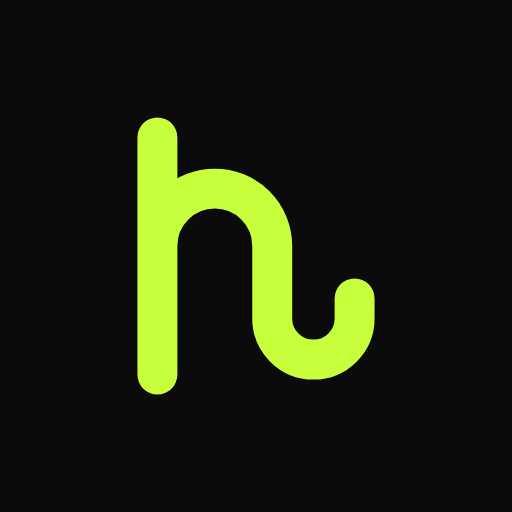
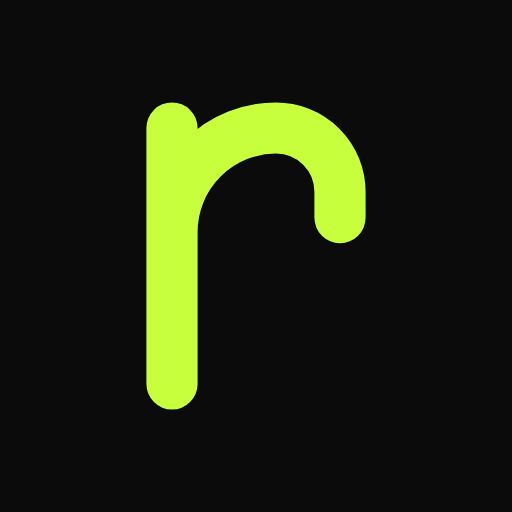
Redesign the mark as an r whose arm curls into a hook
The lime r on the near-black tile replaces the old h: same stroke
weight, round ends and centring, the arm's curl carrying the hook over.
Updated in the studio logo, the landing logo, logo-mark and favicon
SVGs, the PNG app icons (32, 180, 192, 512) and the share image.

Claude-Session: https://claude.ai/code/session_01KdtaEVcjz1LHtpws4s2pfJ

Changed region(s): [[0.25, 0.1875, 0.75, 0.8125]]

diff --git a/src/components/Logo.tsx b/src/components/Logo.tsx
@@ -1,5 +1,5 @@
-// rookker logo: the hook mark and the "rookker" wordmark (Inter Display SemiBold, outlined, -51.2 units tracking).
-const HOOK = "M8.5 6.5V25.5M8.5 15.2a4.6 4.6 0 0 1 9.2 0V21a3.3 3.3 0 0 0 6.6 0v-1.6";
+// rookker logo: an "r" whose arm curls into a hook, and the "rookker" wordmark (Inter Display SemiBold, outlined, -51.2 units tracking).
+const MARK = "M10.75 8V24M10.75 14.5a6.5 6.5 0 0 1 6.5-6.5a4 4 0 0 1 4 4v1.6";
 const WORD = "M112 0H364V-598C364 -763 457 -846 577 -846C627 -846 677 -841 696 -838V-1062C676 -1064 648 -1066 614 -1066C478 -1066 397 -1002 358 -881H355V-1056H112ZM1261.8 24C1572.8 24 1782.8 -199 1782.8 -527C1782.8 -855 1572.8 -1080 1261.8 -1080C950.8 -1080 740.8 -855 740.8 -527C740.8 -199 950.8 24 1261.8 24ZM1261.8 -187C1098.8 -187 995.8 -316 995.8 -527C995.8 -739 1099.8 -869 1261.8 -869C1422.8 -869 1526.8 -738 1526.8 -527C1526.8 -317 1423.8 -187 1261.8 -187ZM2377.6 24C2688.6 24 2898.6 -199 2898.6 -527C2898.6 -855 2688.6 -1080 2377.6 -1080C2066.6 -1080 1856.6 -855 1856.6 -527C1856.6 -199 2066.6 24 2377.6 24ZM2377.6 -187C2214.6 -187 2111.6 -316 2111.6 -527C2111.6 -739 2215.6 -869 2377.6 -869C2538.6 -869 2642.6 -738 2642.6 -527C2642.6 -317 2539.6 -187 2377.6 -187ZM3021.4 0H3273.4V-353L3369.4 -452L3715.4 0H4016.4L3561.4 -600L3990.4 -1056H3687.4L3276.4 -628H3273.4V-1490H3021.4ZM4068.2 0H4320.2V-353L4416.2 -452L4762.2 0H5063.2L4608.2 -600L5037.2 -1056H4734.2L4323.2 -628H4320.2V-1490H4068.2ZM5581 24C5828 24 6024 -119 6064 -326H5828C5799 -236 5714 -175 5587 -175C5417 -175 5319 -290 5313 -462H6077V-531C6077 -855 5875 -1080 5571 -1080C5275 -1080 5066 -848 5066 -527C5066 -207 5264 24 5581 24ZM5315 -636C5332 -787 5429 -880 5575 -880C5721 -880 5819 -787 5835 -636ZM6196.8 0H6448.8V-598C6448.8 -763 6541.8 -846 6661.8 -846C6711.8 -846 6761.8 -841 6780.8 -838V-1062C6760.8 -1064 6732.8 -1066 6698.8 -1066C6562.8 -1066 6481.8 -1002 6442.8 -881H6439.8V-1056H6196.8Z";
 
 export function LogoMark({ size = 24 }: { size?: number }) {
@@ -7,7 +7,7 @@ export function LogoMark({ size = 24 }: { size?: number }) {
     <svg width={size} height={size} viewBox="0 0 32 32" aria-hidden className="logo-mark">
       <rect width="32" height="32" rx="8" fill="#0B0B0C" />
       <rect x=".5" y=".5" width="31" height="31" rx="7.5" fill="none" stroke="var(--logo-edge)" />
-      <path d={HOOK} fill="none" stroke="#C8FF3D" strokeWidth={3.2} strokeLinecap="round" strokeLinejoin="round" />
+      <path d={MARK} fill="none" stroke="#C8FF3D" strokeWidth={3.2} strokeLinecap="round" strokeLinejoin="round" />
     </svg>
   );
 }
@@ -17,7 +17,7 @@ export function Logo({ height = 24 }: { height?: number }) {
     <svg height={height} viewBox="0 0 131.5 32" role="img" aria-label="rookker" className="logo">
       <rect width="32" height="32" rx="8" fill="#0B0B0C" />
       <rect x=".5" y=".5" width="31" height="31" rx="7.5" fill="none" stroke="var(--logo-edge)" />
-      <path d={HOOK} fill="none" stroke="#C8FF3D" strokeWidth={3.2} strokeLinecap="round" strokeLinejoin="round" />
+      <path d={MARK} fill="none" stroke="#C8FF3D" strokeWidth={3.2} strokeLinecap="round" strokeLinejoin="round" />
       <path transform="translate(39.497 26) scale(0.013423)" d={WORD} fill="currentColor" />
     </svg>
   );
